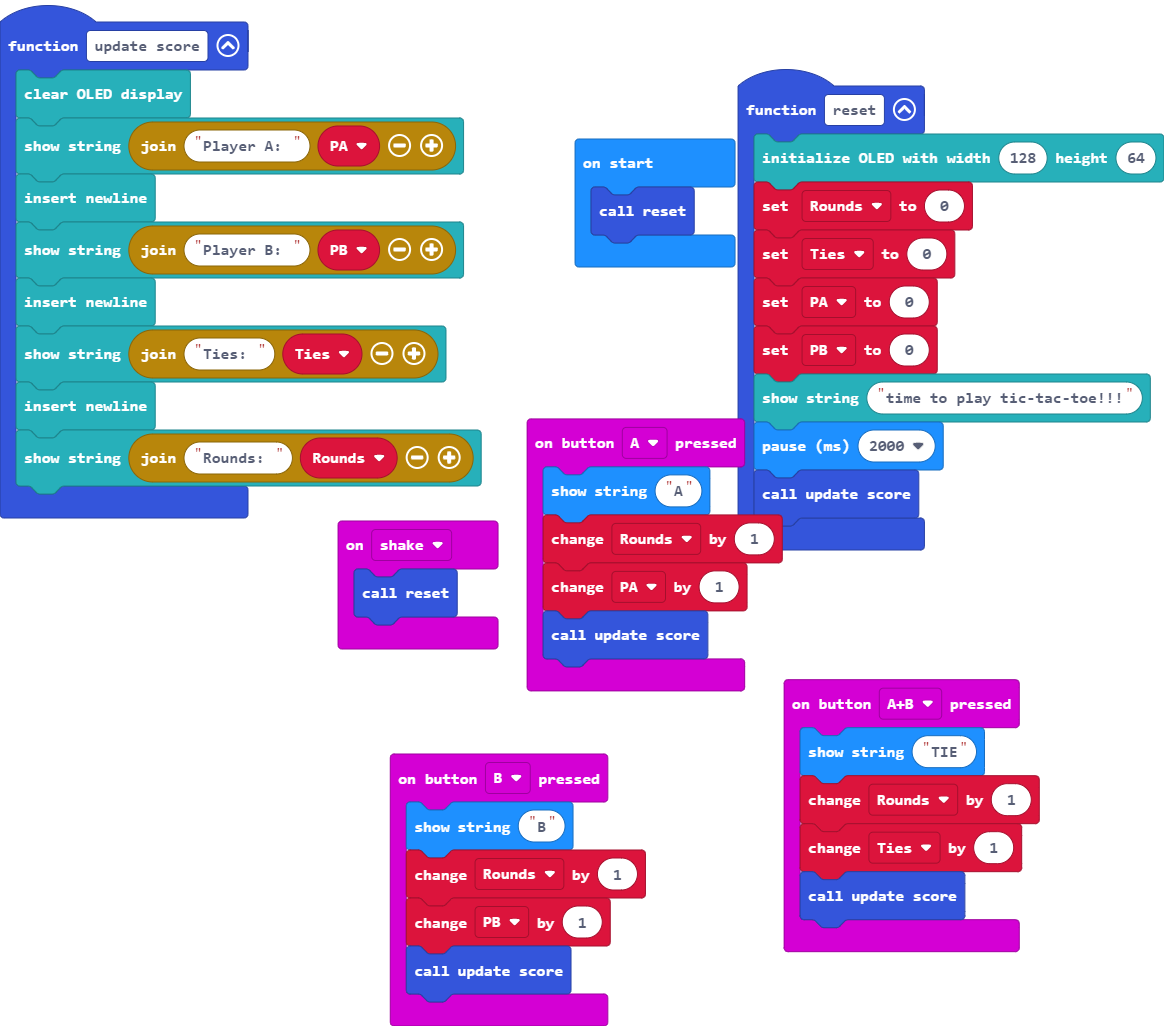
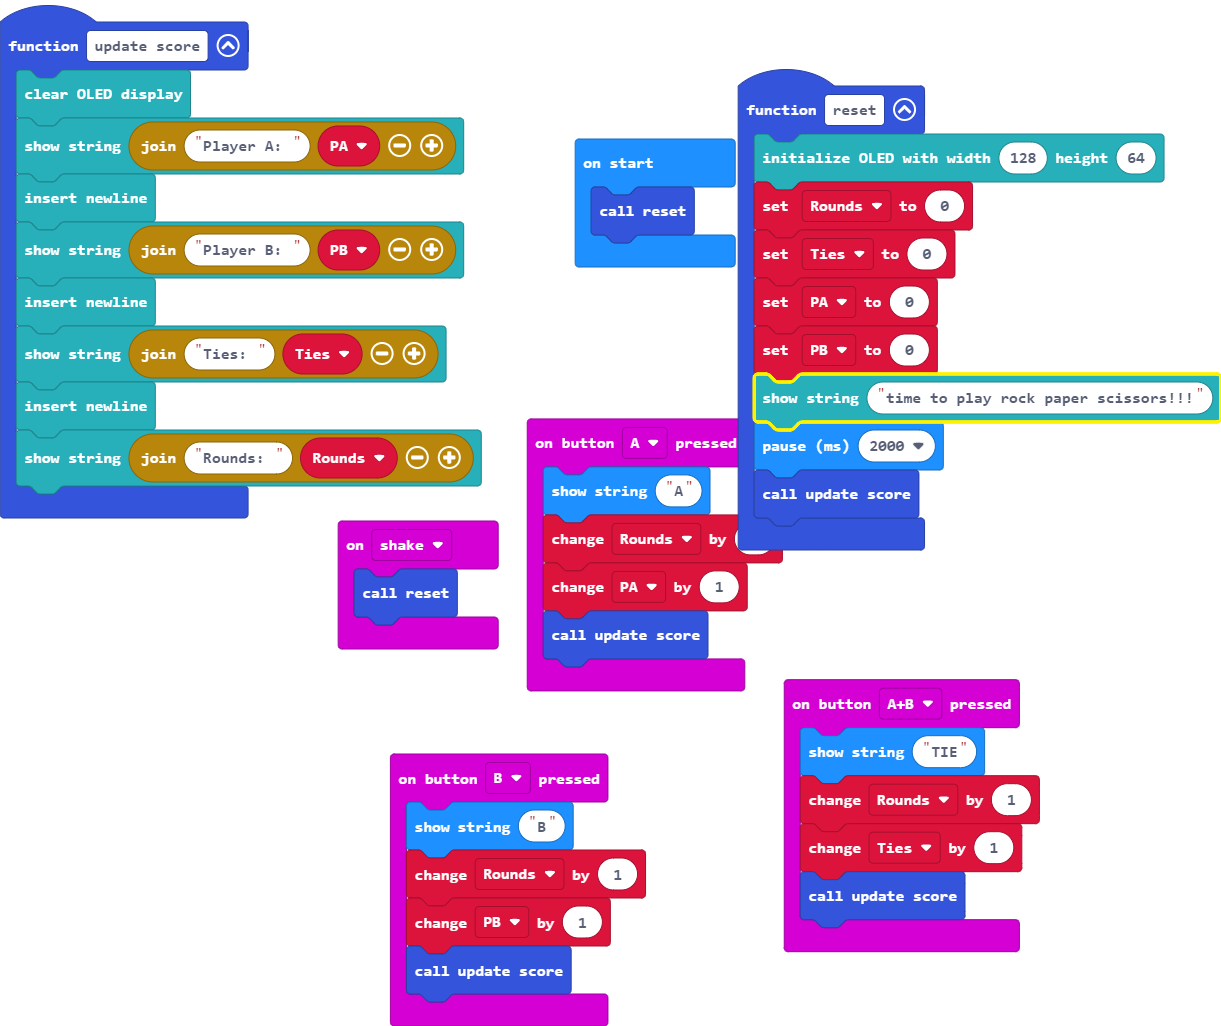
Update main.blocks, main.ts

Changed region(s): [[0.0, 0.0, 1.0, 0.9357], [0.3093, 0.7173, 0.5567, 1.0], [0.4948, 0.9669, 0.5258, 1.0]]

diff --git a/main.ts b/main.ts
@@ -25,7 +25,7 @@ function reset () {
     Ties = 0
     PA = 0
     PB = 0
-    OLED.writeStringNewLine("time to play tic-tac-toe!!!")
+    OLED.writeStringNewLine("time to play rock paper scissors!!!")
     basic.pause(2000)
     update_score()
 }
